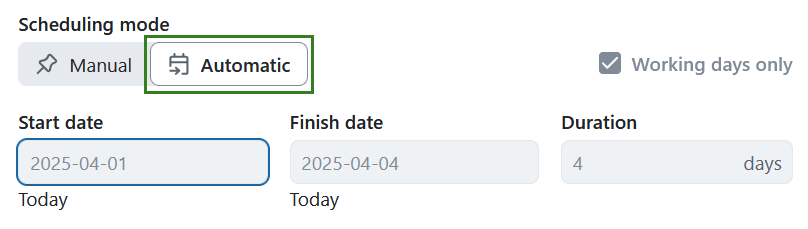
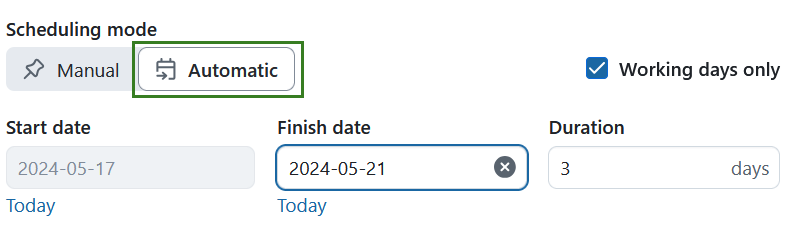
[#62768] Automatic scheduling mode: make it possible to enter Finish date by direct input or by clicking on the mini calendar  https://community.openproject.org/work_packages/62768
[#62768] Automatic scheduling mode: make it possible to enter Finish date by direct input or by clicking on the mini calendar

https://community.openproject.org/work_packages/62768

diff --git a/docs/user-guide/work-packages/set-change-dates/README.md b/docs/user-guide/work-packages/set-change-dates/README.md
@@ -114,11 +114,17 @@ Automatic scheduling is useful for automatically scheduling work packages with e
 
 A work package can only be in automatic scheduling mode if it has predecessors or children.
 
-An automatically-scheduled work package with predecessors will automatically start one working day after the finish date of the nearest predecessor. You can still enter a duration (and effectively change the finish date). This temporal relationship is maintained even if the dates of the predecessor are changed; for example, if the predecessor is moved forwards or backwards in time (either because the finish date or duration changed), the automatically-scheduled work package will also change its start date so it starts the day after the new date. This makes it possible to create a dependable chain of automatically scheduled work packages that automatically adjust to planning changes. 
+An automatically-scheduled work package with predecessors will automatically start one working day after the finish date of the nearest predecessor. However, both the **duration** and **finish date** can now be edited directly.
+
+You can still enter a duration (and effectively change the finish date). 
+
+You can either enter a duration to adjust the finish date or select a finish date manually in the date picker. Note that the dates before the automatically derived start date are inactive, i.e. the finish date must be set on or after the start date. 
+
+This temporal relationship is maintained even if the dates of the predecessor are changed; for example, if the predecessor is moved forwards or backwards in time (either because the finish date or duration changed), the automatically-scheduled work package will also change its start date so it starts the day after the new date. This makes it possible to create a dependable chain of automatically scheduled work packages that automatically adjust to planning changes. 
 
 ![A switch on the date picker allows you to enable automatic scheduling mode in OpenProject](openproject_user_guide_date_picker_banner_automatic_mode.png)
 
-When switching from manual to automatic scheduling, a warning banner notifies you the dates are not determined by child work packages. This allows automatic date setting based on existing relations.
+When switching from manual to automatic scheduling, a warning banner notifies you the dates are now determined by predecessor or child work packages. This allows automatic date setting based on existing relations.
 
 ![A blue banner informing the user that the worked package is automatically scheduled](openproject_user_guide_date_picker_banner_automatic_mode_relations_banner.png)
 
